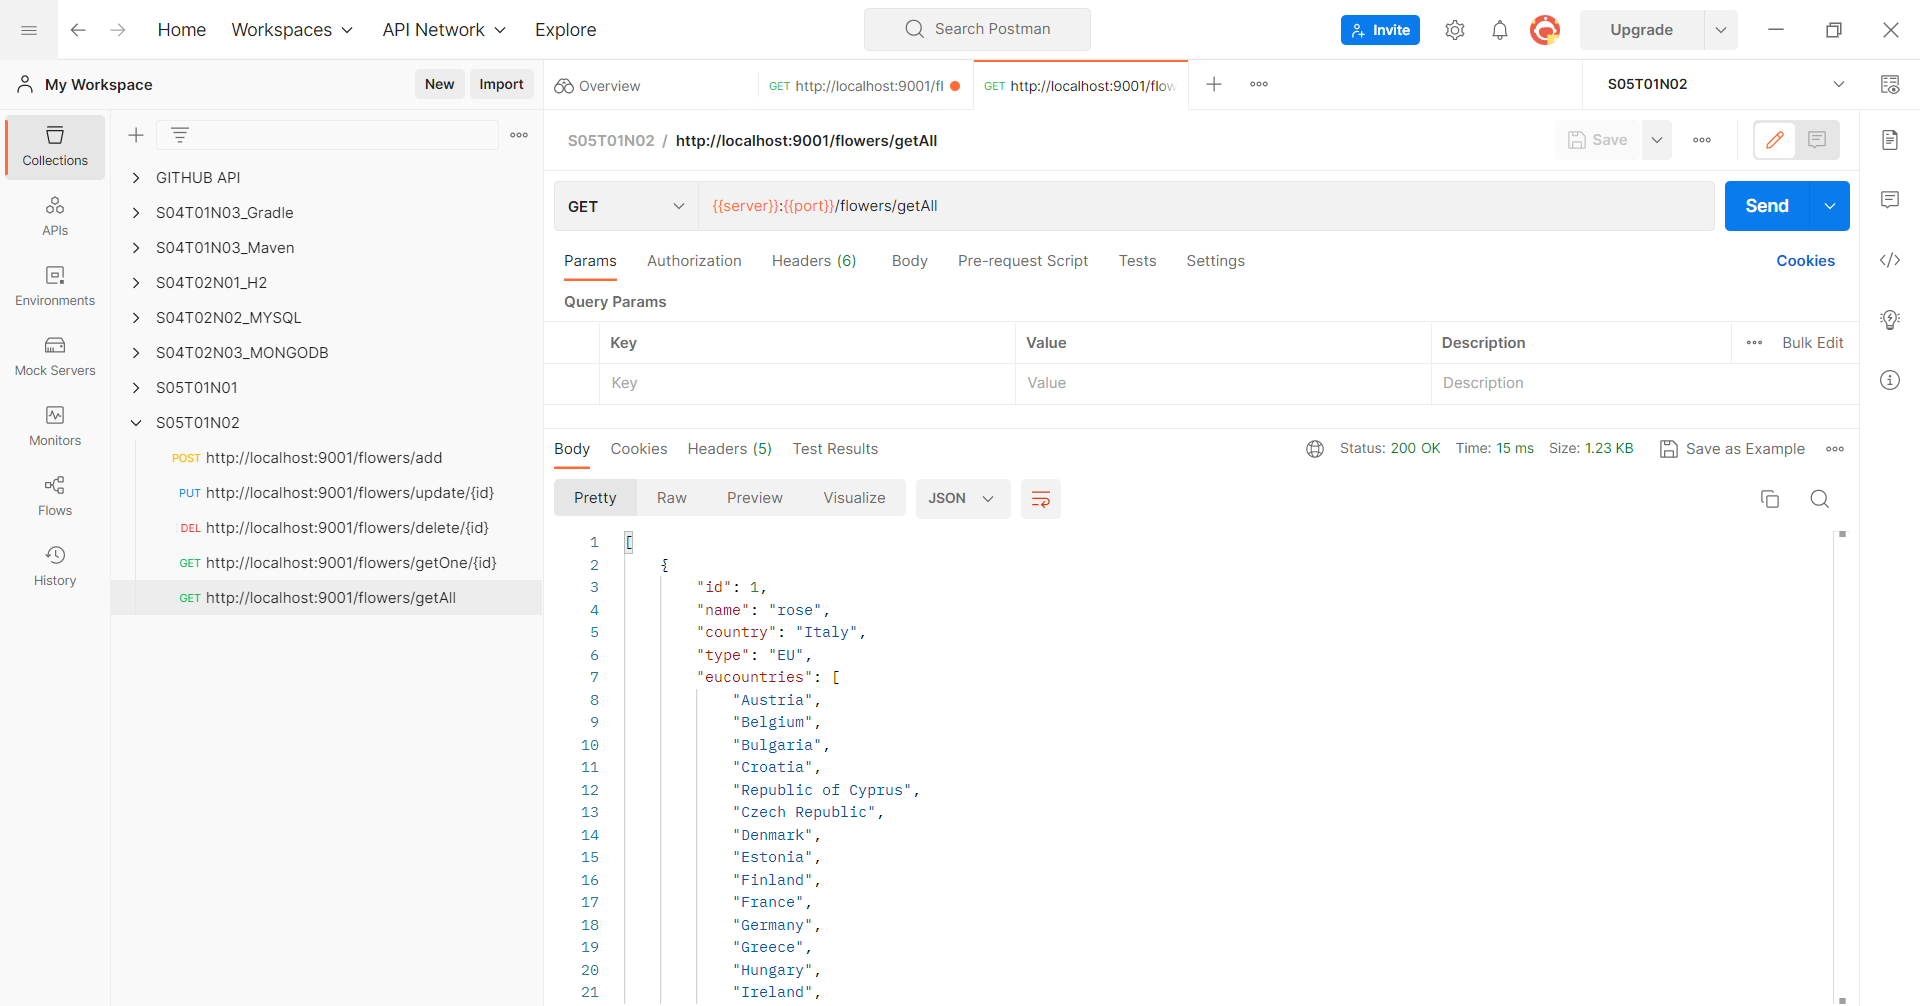
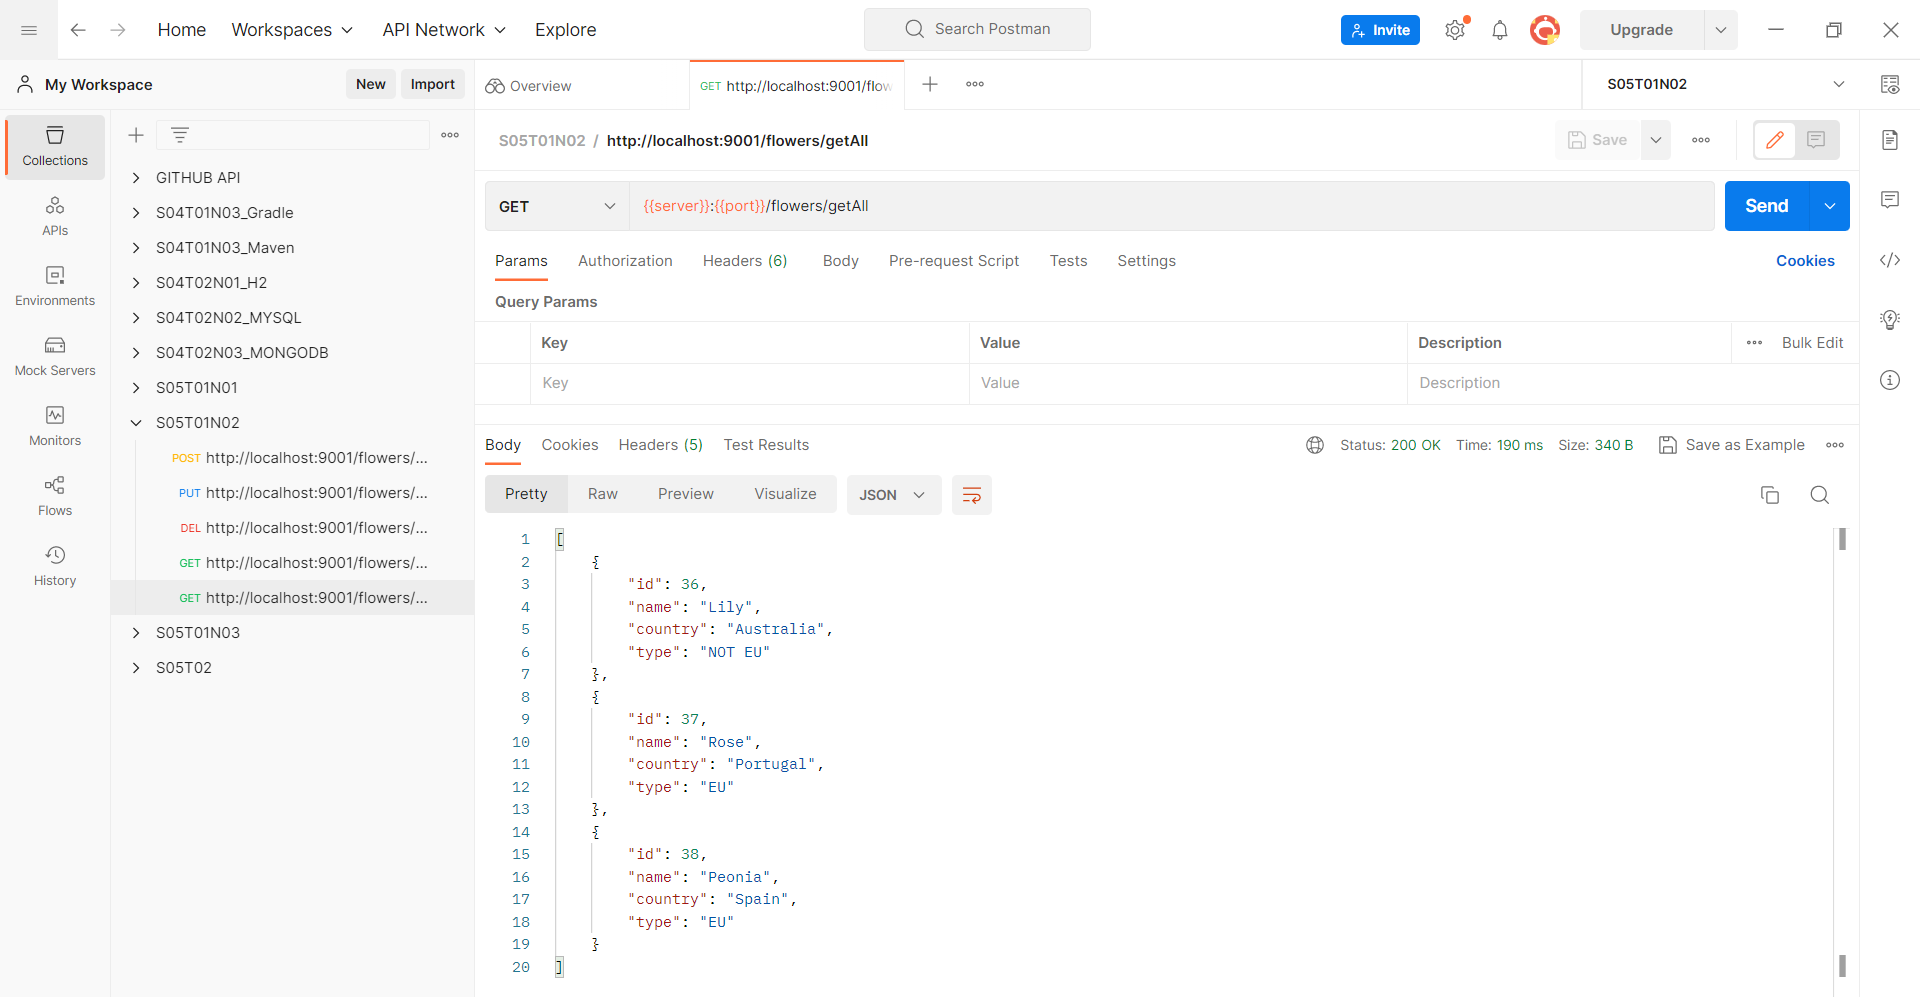
afegir json ignore a la llista de countries

diff --git a/S05T01N02LizMontse/src/main/java/cat/itacademy/barcelonactiva/liz/montse/s05/t01/n02/model/dto/FlowerDTO.java b/S05T01N02LizMontse/src/main/java/cat/itacademy/barcelonactiva/liz/montse/s05/t01/n02/model/dto/FlowerDTO.java
@@ -1,5 +1,6 @@
 package cat.itacademy.barcelonactiva.liz.montse.s05.t01.n02.model.dto;
 
+import com.fasterxml.jackson.annotation.JsonIgnore;
 import io.swagger.v3.oas.annotations.media.Schema;
 import jakarta.validation.constraints.NotBlank;
 import lombok.AllArgsConstructor;
@@ -27,6 +28,7 @@ public class FlowerDTO {
     @Schema(description = "To indicate if the country belongs to the European Union or not", example = "EU")
     private String type;
 
+    @JsonIgnore
     private List<String> EUcountries = List.of("Austria", "Belgium", "Bulgaria", "Croatia","Republic of Cyprus",
             "Czech Republic", "Denmark", "Estonia", "Finland", "France", "Germany", "Greece", "Hungary", "Ireland", "Italy",
             "Latvia", "Lithuania", "Luxembourg", "Malta", "Netherlands", "Poland", "Portugal", "Romania", "Slovakia",

diff --git a/S05T01N03LizMontse/src/main/java/cat/itacademy/barcelonactiva/liz/montse/s05/t01/n03/model/dto/FlowerDTO.java b/S05T01N03LizMontse/src/main/java/cat/itacademy/barcelonactiva/liz/montse/s05/t01/n03/model/dto/FlowerDTO.java
@@ -1,5 +1,6 @@
 package cat.itacademy.barcelonactiva.liz.montse.s05.t01.n03.model.dto;
 
+import com.fasterxml.jackson.annotation.JsonIgnore;
 import io.swagger.v3.oas.annotations.media.Schema;
 import jakarta.validation.constraints.NotBlank;
 import lombok.AllArgsConstructor;
@@ -27,6 +28,7 @@ public class FlowerDTO {
     @Schema(description = "To indicate if the country belongs to the European Union or not", example = "EU")
     private String type;
 
+    @JsonIgnore
     private List<String> EUcountries = List.of("Austria", "Belgium", "Bulgaria", "Croatia","Republic of Cyprus",
             "Czech Republic", "Denmark", "Estonia", "Finland", "France", "Germany", "Greece", "Hungary", "Ireland", "Italy",
             "Latvia", "Lithuania", "Luxembourg", "Malta", "Netherlands", "Poland", "Portugal", "Romania", "Slovakia",
